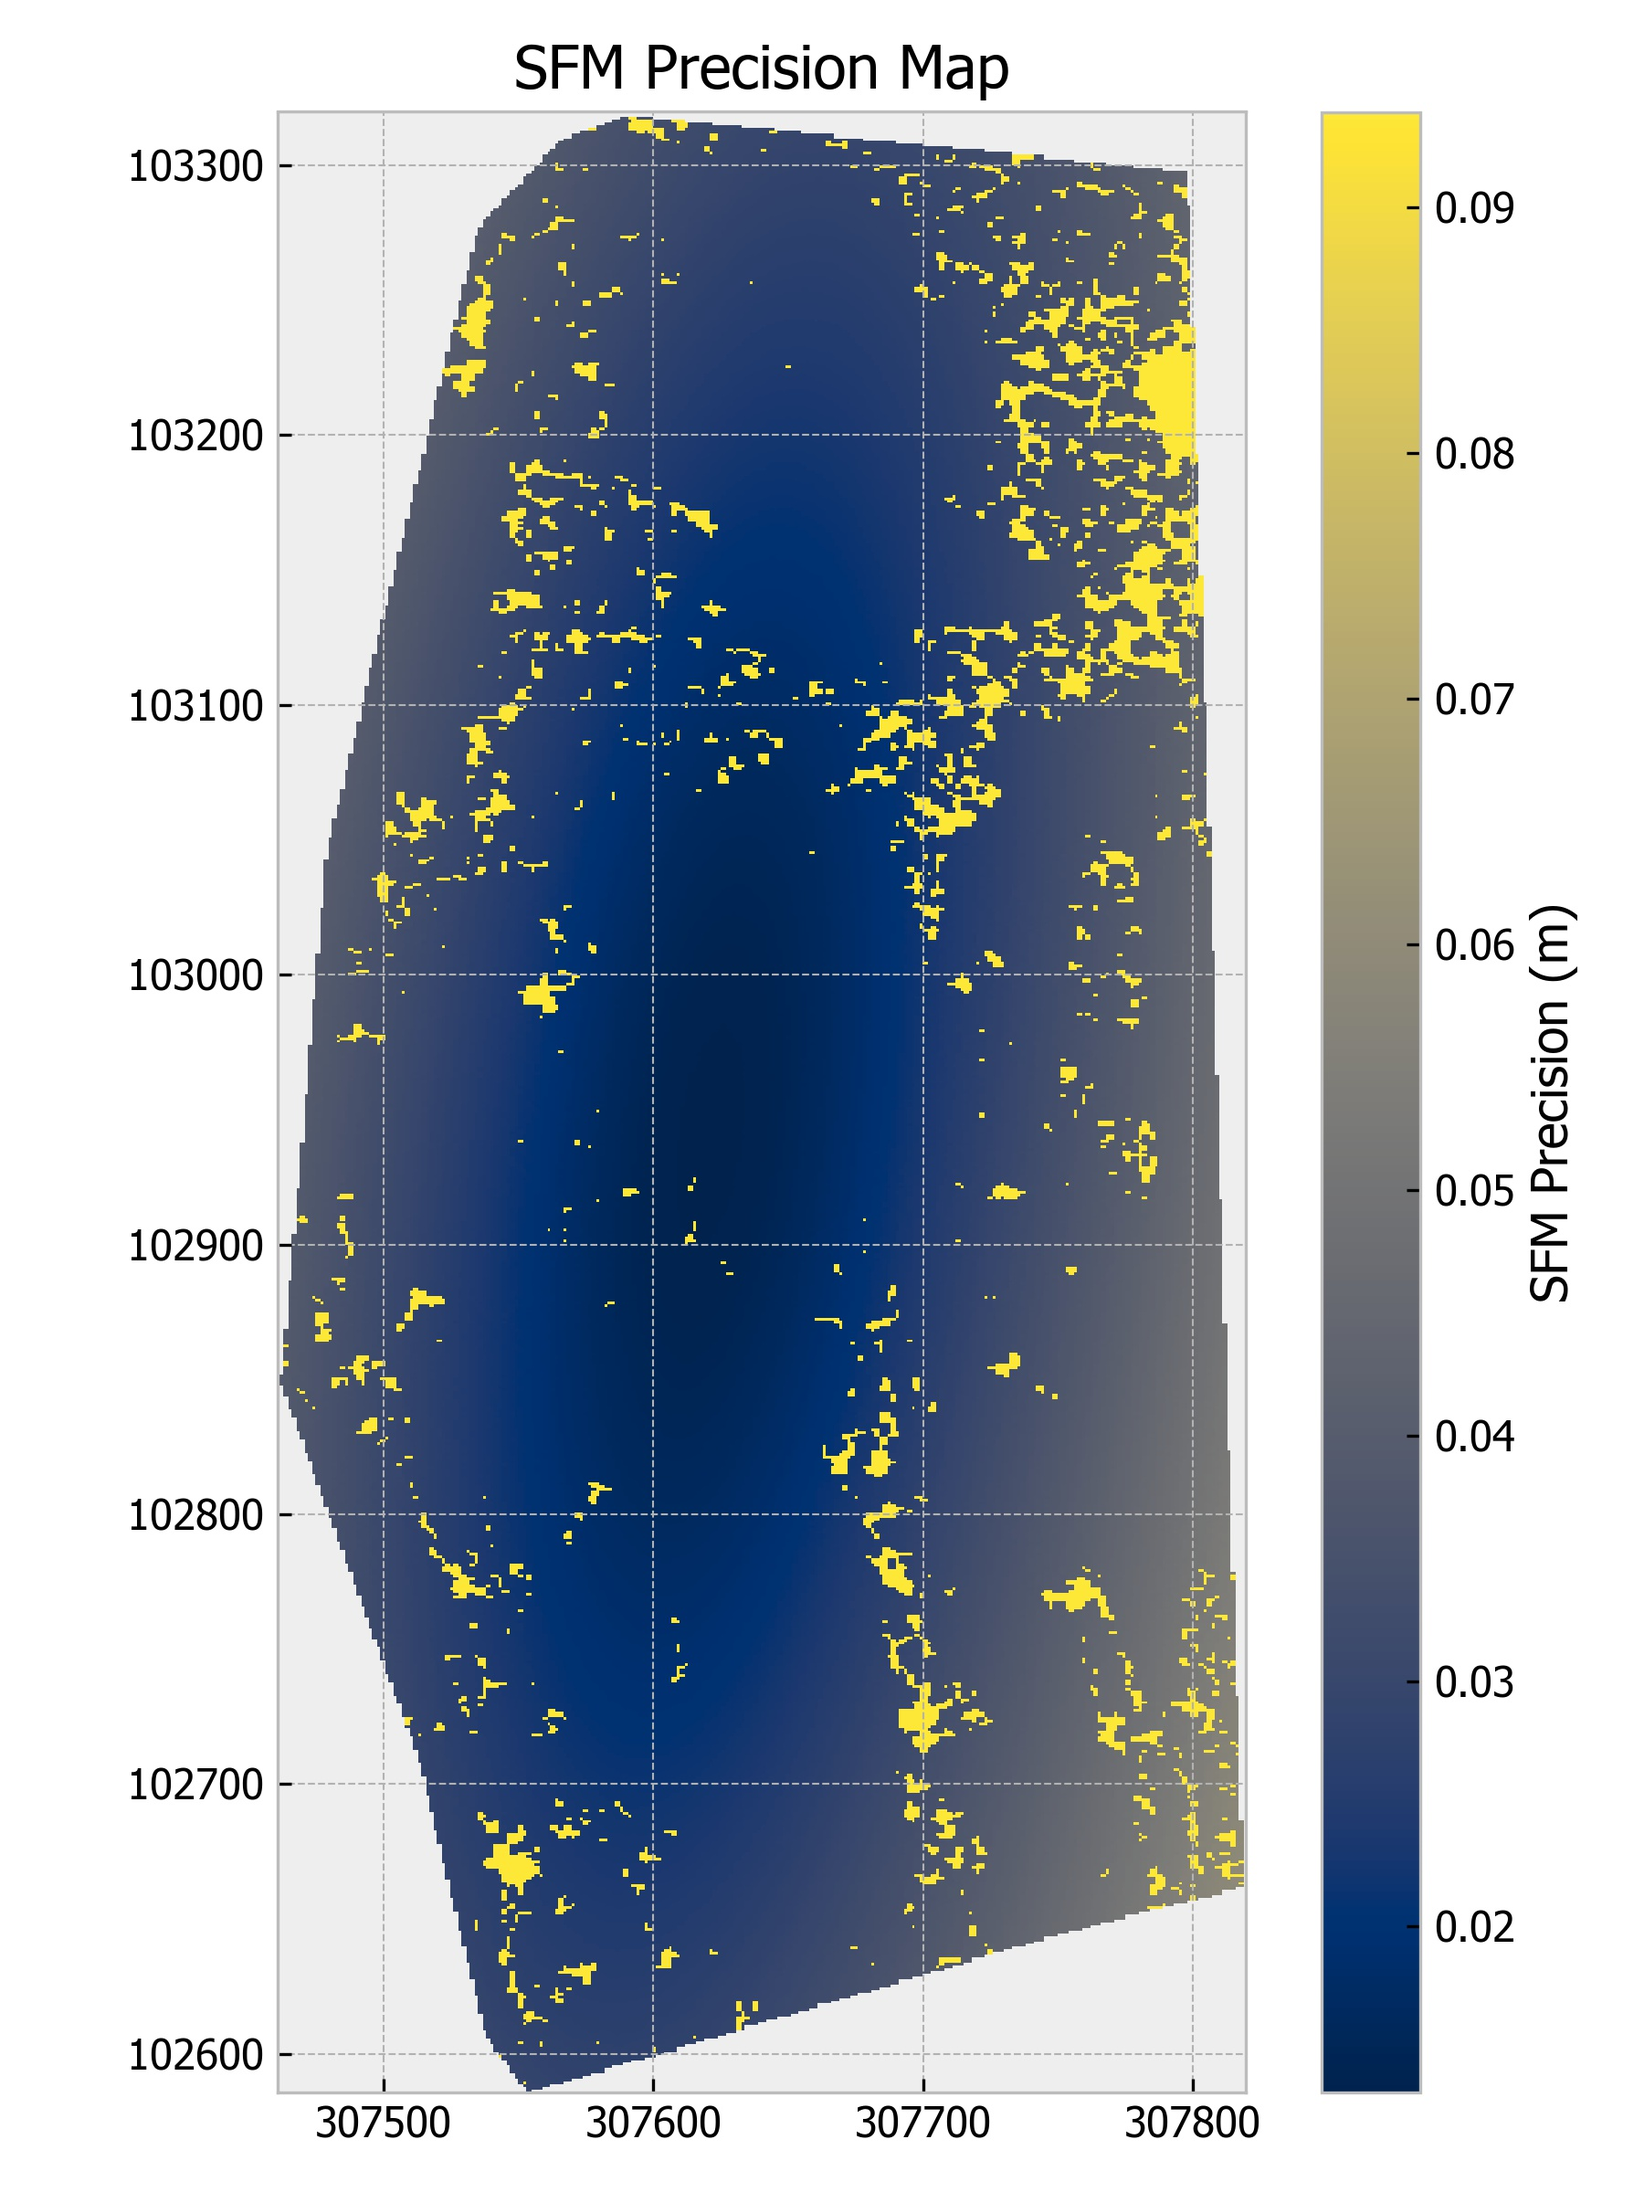
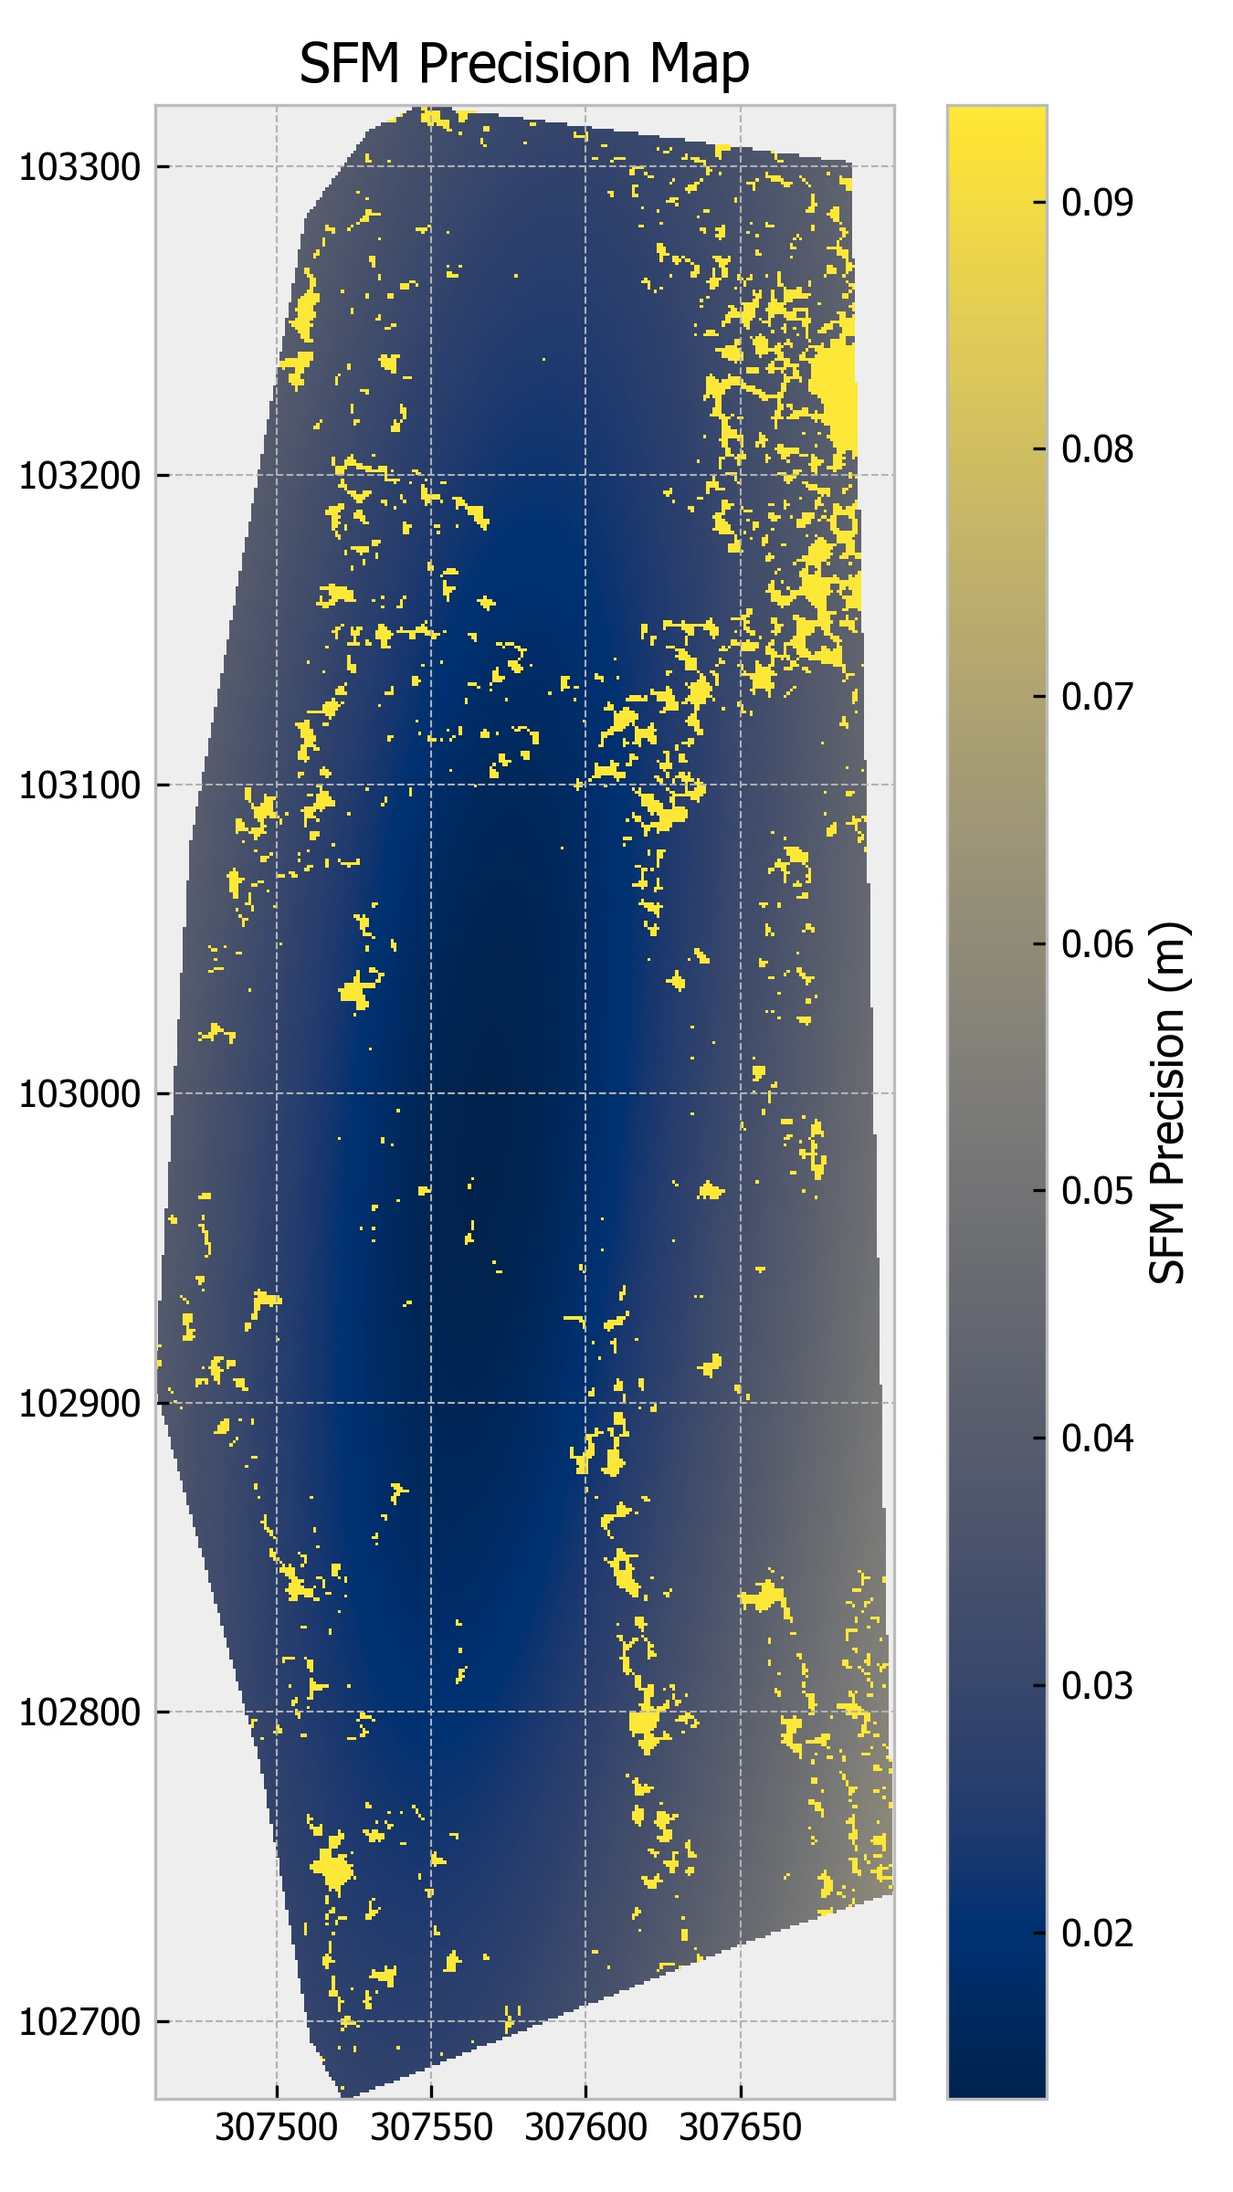
many bux fixes - all working nice now...

diff --git a/sfm_gridz/precision_map.py b/sfm_gridz/precision_map.py
@@ -76,42 +76,50 @@ class PrRas:
             os.remove(self.path)
 
         if self.bounds is None:
-            writers_section = {"type": "writers.gdal",
-                               "filename": self.path,  # output file name
-                               "resolution": self.res,
-                               "dimension": self.pr_dim,  # raster resolution
-                               "nodata": -999,
-                               "bounds": str(self.bounds),
-                               "output_type": "mean",
-                               "window_size": 0  # changes the search area around an empty cell - second stage of algorithm
-                               }
+
+            dtm_gen = {
+                "pipeline": [
+                    {
+                        "type": "readers.text",
+                        "filename": self.ppc,
+                        "override_srs": str(self.epsg_code)
+                    },
+                    {"type": "writers.gdal",
+                     "filename": self.path,  # output file name
+                     "resolution": self.res,
+                     "dimension": self.pr_dim,  # raster resolution
+                     "nodata": -999,
+                     "output_type": "mean",
+                     "window_size": 0  # changes the search area around an empty cell - second stage of algorithm
+                     }
+                ]
+            }
 
         else:
-            writers_section = {"type": "writers.gdal",
-                               "filename": self.path,  # output file name
-                               "resolution": self.res,
-                               "dimension": self.pr_dim,  # raster resolution
-                               "nodata": -999,
-                               "output_type": "mean",
-                               "window_size": 0  # changes the search area around an empty cell - second stage of algorithm
-                               }
-
-        dtm_gen = {
-            "pipeline": [
-                {
-                    "type": "readers.text",
-                    "filename": self.ppc,
-                    "override_srs": str(self.epsg_code)
-                },
-                writers_section
-            ]
-        }
+            dtm_gen = {
+                "pipeline": [
+                    {
+                        "type": "readers.text",
+                        "filename": self.ppc,
+                        "override_srs": str(self.epsg_code)
+                    },
+                    {"type": "writers.gdal",
+                     "filename": self.path,  # output file name
+                     "resolution": self.res,
+                     "dimension": self.pr_dim,  # raster resolution
+                     "nodata": -999,
+                     "bounds": str(self.bounds),
+                     "output_type": "mean",
+                     "window_size": 0  # changes the search area around an empty cell - second stage of algorithm
+                     }
+                ]
+            }
 
         pipeline = pdal.Pipeline(json.dumps(dtm_gen)) # define the pdal pipeline
         pipeline.validate()  # validate the pipeline
         pipeline.execute()   #  run the pipeline
 
-        with rasterio.open(self.path, 'r+') as src:
+        with rasterio.open(self.path, 'r') as src:
             meta = src.meta
             arr = src.read(1)
 

diff --git a/sfm_gridz/DSM.py b/sfm_gridz/DSM.py
@@ -50,39 +50,50 @@ class Dsm:
 
     def Run(self):
 
-        if self.bounds is None:
-            writers_section = {
-                "type": "writers.gdal",
-                "filename": self.path,  # output file name
-                "resolution": self.res,
-                "dimension": 'Z',  # raster resolution
-                "nodata": -999,
-                "output_type": "{0}, stdev".format(self.statval),
-                "window_size": self.wind}
-
-        else:
-            writers_section = {
-                "type": "writers.gdal",
-                "filename": self.path,  # output file name
-                "resolution": self.res,
-                "dimension": 'Z',  # raster resolution
-                "nodata": -999,
-                "bounds": str(self.bounds),
-                "output_type": "{0}, stdev".format(self.statval),
-                "window_size": self.wind},
-
         print("Generating DSM raster...")
 
-        dtm_gen = {
-            "pipeline": [
-                {
-                    "type": self.reader,
-                    "filename":  self.rpc,
-                    "override_srs": str(self.epsg_code)
-                },
-                writers_section
-            ]
-        }
+        if self.bounds is None:
+
+
+
+            dtm_gen = {
+                "pipeline": [
+                    {
+                        "type": self.reader,
+                        "filename": self.rpc,
+                        "override_srs": str(self.epsg_code)
+                    },
+                    {
+                        "type": "writers.gdal",
+                        "filename": self.path,  # output file name
+                        "resolution": self.res,
+                        "dimension": 'Z',  # raster resolution
+                        "nodata": -999,
+                        "output_type": "mean, stdev",
+                        "window_size": self.wind
+                    }
+                ]
+            }
+
+        else:
+            dtm_gen = {
+                "pipeline": [
+                    {
+                        "type": self.reader,
+                        "filename": self.rpc,
+                        "override_srs": str(self.epsg_code)
+                    },
+                    {
+                        "type": "writers.gdal",
+                        "filename": self.path,  # output file name
+                        "resolution": self.res,
+                        "dimension": 'Z',  # raster resolution
+                        "nodata": -999,
+                        "output_type": "mean, stdev",
+                        "window_size": self.wind
+                    }
+                ]
+            }
 
         pipeline = pdal.Pipeline(json.dumps(dtm_gen)) # define the pdal pipeline
         pipeline.validate()  # validate the pipeline

diff --git a/HG_CWC_Add_tasks/HG_CWC_workflow_P2.py b/HG_CWC_Add_tasks/HG_CWC_workflow_P2.py
@@ -6,7 +6,7 @@ import rasterio
 from rasterio.plot import show_hist
 from matplotlib import pyplot as plt
 
-out_ras_home = os.path.abspath("C:/HG_Projects/CWC_Drone_work/Prec_Anal_Exports/Rasters_v1")
+out_ras_home = os.path.abspath("C:/HG_Projects/CWC_Drone_work/Prec_Anal_Exports/Rasters_v2")
 
 dsm1612 = os.path.join(out_ras_home, "dsm1.tif")
 dsm1702 = os.path.join(out_ras_home, "dsm2.tif")
@@ -59,7 +59,7 @@ def run_functions():
     # Start - Finish (SUMMER)
     Sep17_Sep18 = sfm_gridz.difference(raster_1=dsm1709, raster_2=dsm1809,
                                        prec_point_cloud_1=pcp1709, prec_point_cloud_2=pcp1809,
-                                       out_ras=DoD_Sep17_Sep18, epsg=epsg_code)
+                                       out_ras=DoD_Sep17_Sep18, epsg=epsg_code, mask=mask_shp)
 
     pcplot.plot_dem_of_diff(Sep17_Sep18.ras_out_path, save_path=os.path.join(out_ras_home, "DOD_example1.jpg"),
                             v_range=(-5, 5))

diff --git a/sfm_gridz/mask_AOI.py b/sfm_gridz/mask_AOI.py
@@ -12,12 +12,14 @@ def mask_it(raster, shp_path, epsg):
     if epsg is None:
         warnings.warn("No CRS set for mask - if alignment issues occur set a CRS to the feature")
     elif aoi.crs != epsg:
+        warnings.warn("CRS mismatch - reprojecting feature geometry to match raster CRS")
         aoi = aoi.to_crs(epsg)
 
     geom = getFeatures(gdf=aoi)
 
     with rasterio.open(raster, 'r') as src:
-        out_image, out_transform = mask(src, geom, crop=True, invert=False, nodata=-999, all_touched=True, pad=True)
+        print('masking raster...')
+        out_image, out_transform = mask(src, geom, crop=True, invert=False, nodata=-999, all_touched=True)
 
         out_meta = src.meta
 
